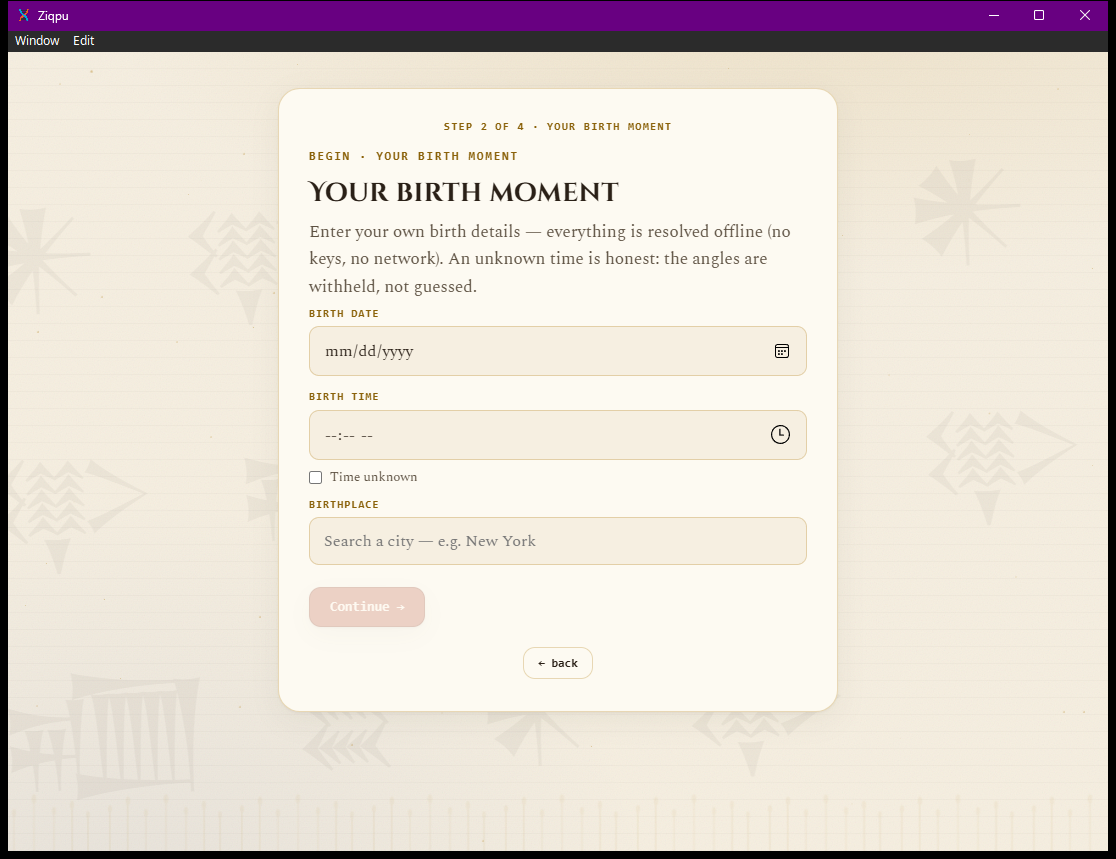
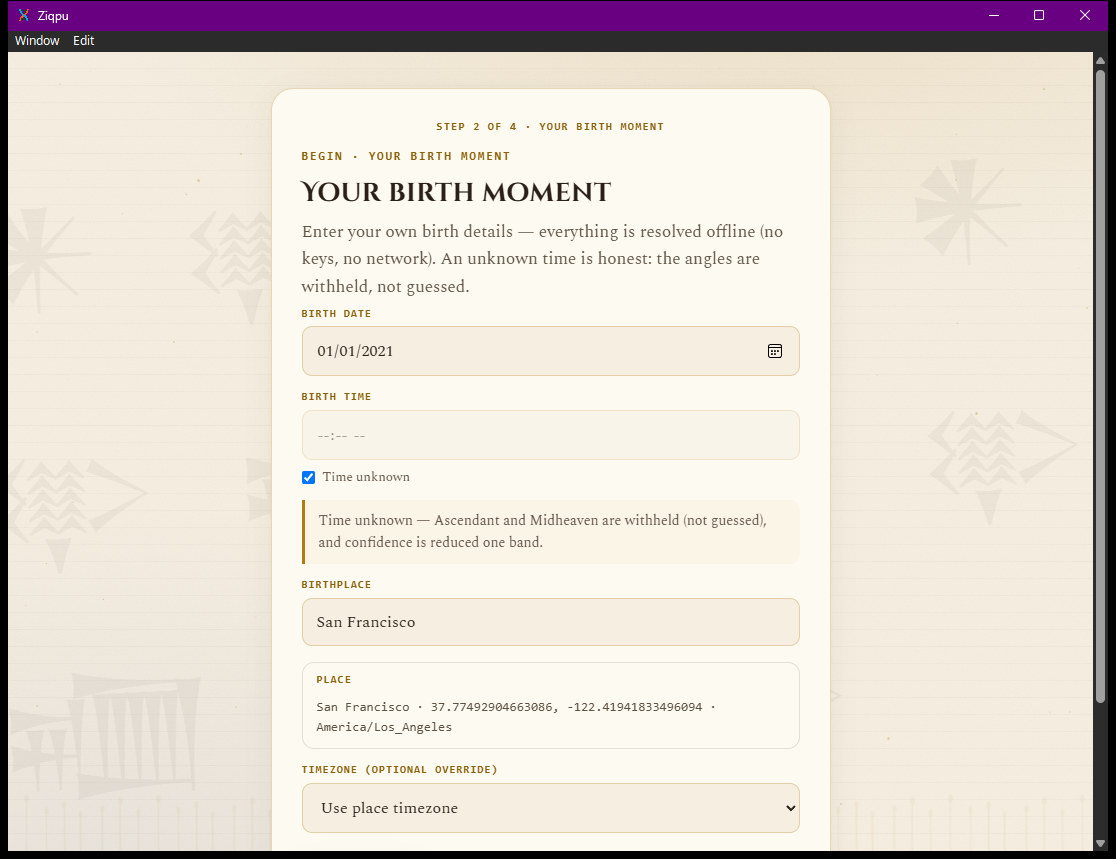
Ziqpu driven with a real chart, and HouseCheck's repair speed live
Ziqpu's onboarding was filled in with Anthropic's own founding date -- 1 January
2021, San Francisco -- and the time left unknown, because I do not know the
incorporation hour and that is precisely the case the app was built to handle. The
resulting screens are better evidence than a splash page: the time-unknown notice
states that Ascendant and Midheaven are withheld rather than guessed and that
confidence drops one band, and the birthplace field resolves San Francisco to
37.77492904663086, -122.41941833496094, America/Los_Angeles entirely offline.

That city search also disambiguates between San Francisco in the United States, the
Dominican Republic, Peru and the Philippines -- the same class of problem as
HouseCheck answering an ambiguous address with an arbitrary borough, solved the same
way: show the candidates rather than pick one.

HouseCheck gains a shot of the repair-speed row now live in production, on the
building it was designed around: 33 open violations, "None closed", and the sentence
that the count is not the story.

diff --git a/cycle-3-ziqpu/README.md b/cycle-3-ziqpu/README.md
@@ -8,6 +8,11 @@ data, read back in plain language, and never dressed up as fate.
 
 ![Ziqpu welcome](./screenshots/01-welcome.png)
 ![Ziqpu birth moment](./screenshots/02-birth-moment.png)
+![Ziqpu offline city search](./screenshots/03-offline-city-search.png)
+
+*Driven with **Anthropic's own founding date** — 1 January 2021, San Francisco, time deliberately
+left unknown because I do not know the incorporation hour. Which is exactly the case the app is
+built for.*
 
 > *"An unknown time is honest: the angles are withheld, not guessed."* — the app's own copy on
 > the birth-details screen. The same rule the rest of these builds follow: an absent answer is

diff --git a/cycle-4-housecheck/README.md b/cycle-4-housecheck/README.md
@@ -33,6 +33,8 @@ words, with how long each has been open. The card refuses to imply more than it 
 building with no Class C violations and a floor-level score gets a sentence reconciling the two,
 because a count read alone can be read backwards.
 
+![Repair speed on a building that fixes nothing](./screenshots/04-repair-speed.png)
+
 **Repair speed.** Median days from a violation being issued to being closed. The only measure
 on the card describing *behaviour* rather than state — two buildings can show identical open
 counts while one fixes things in three weeks and the other in three years. Three states, not
